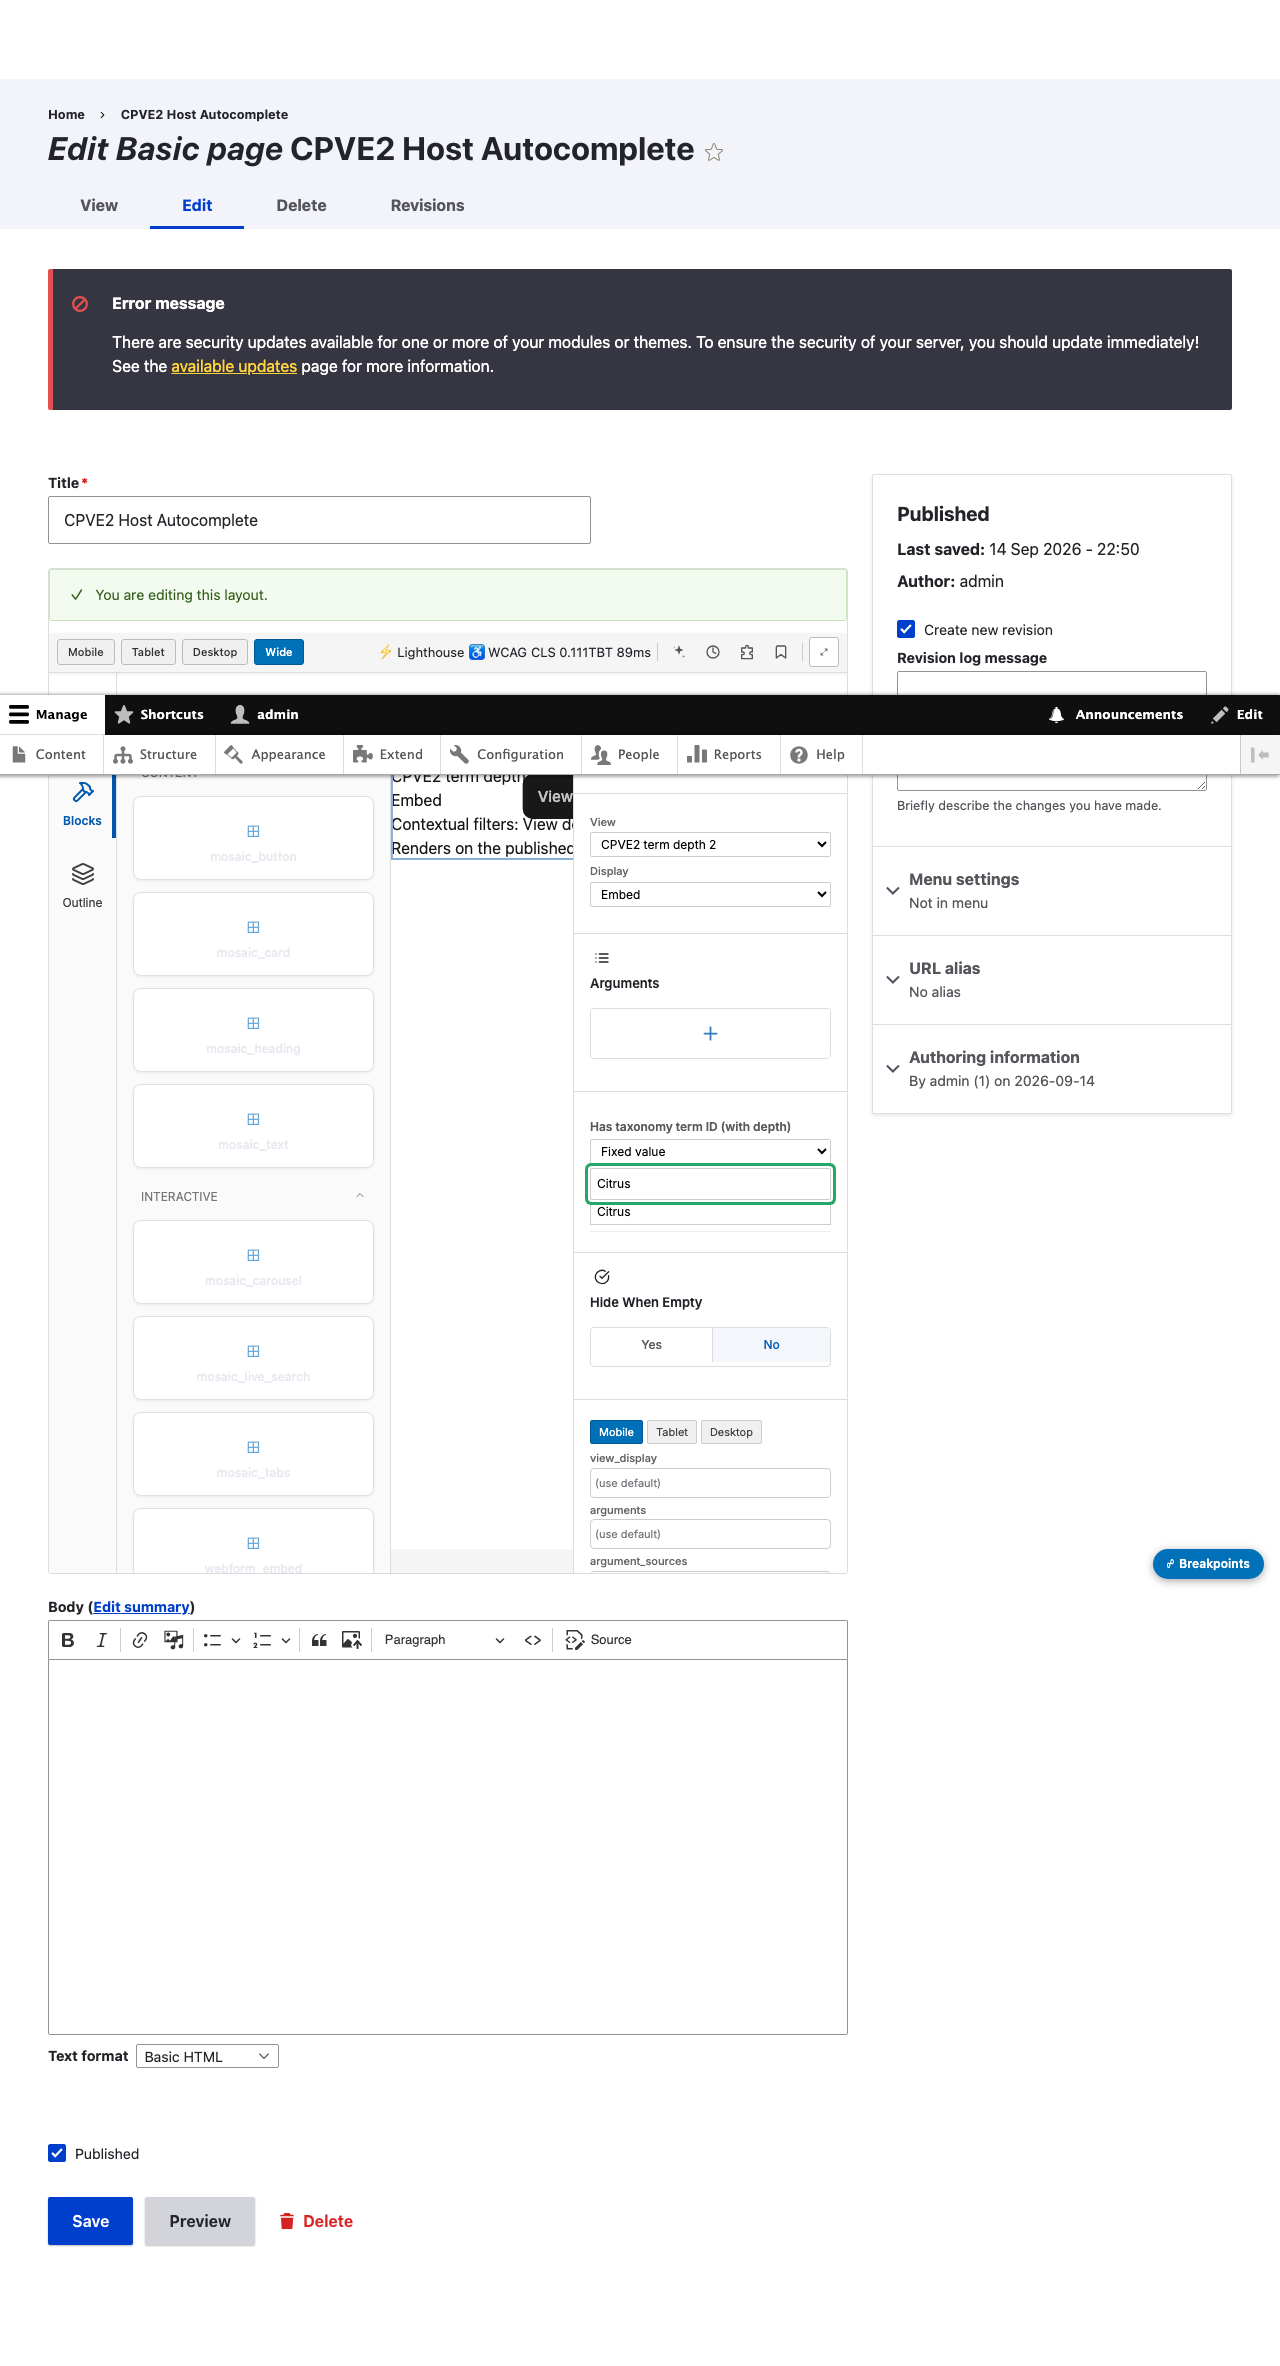
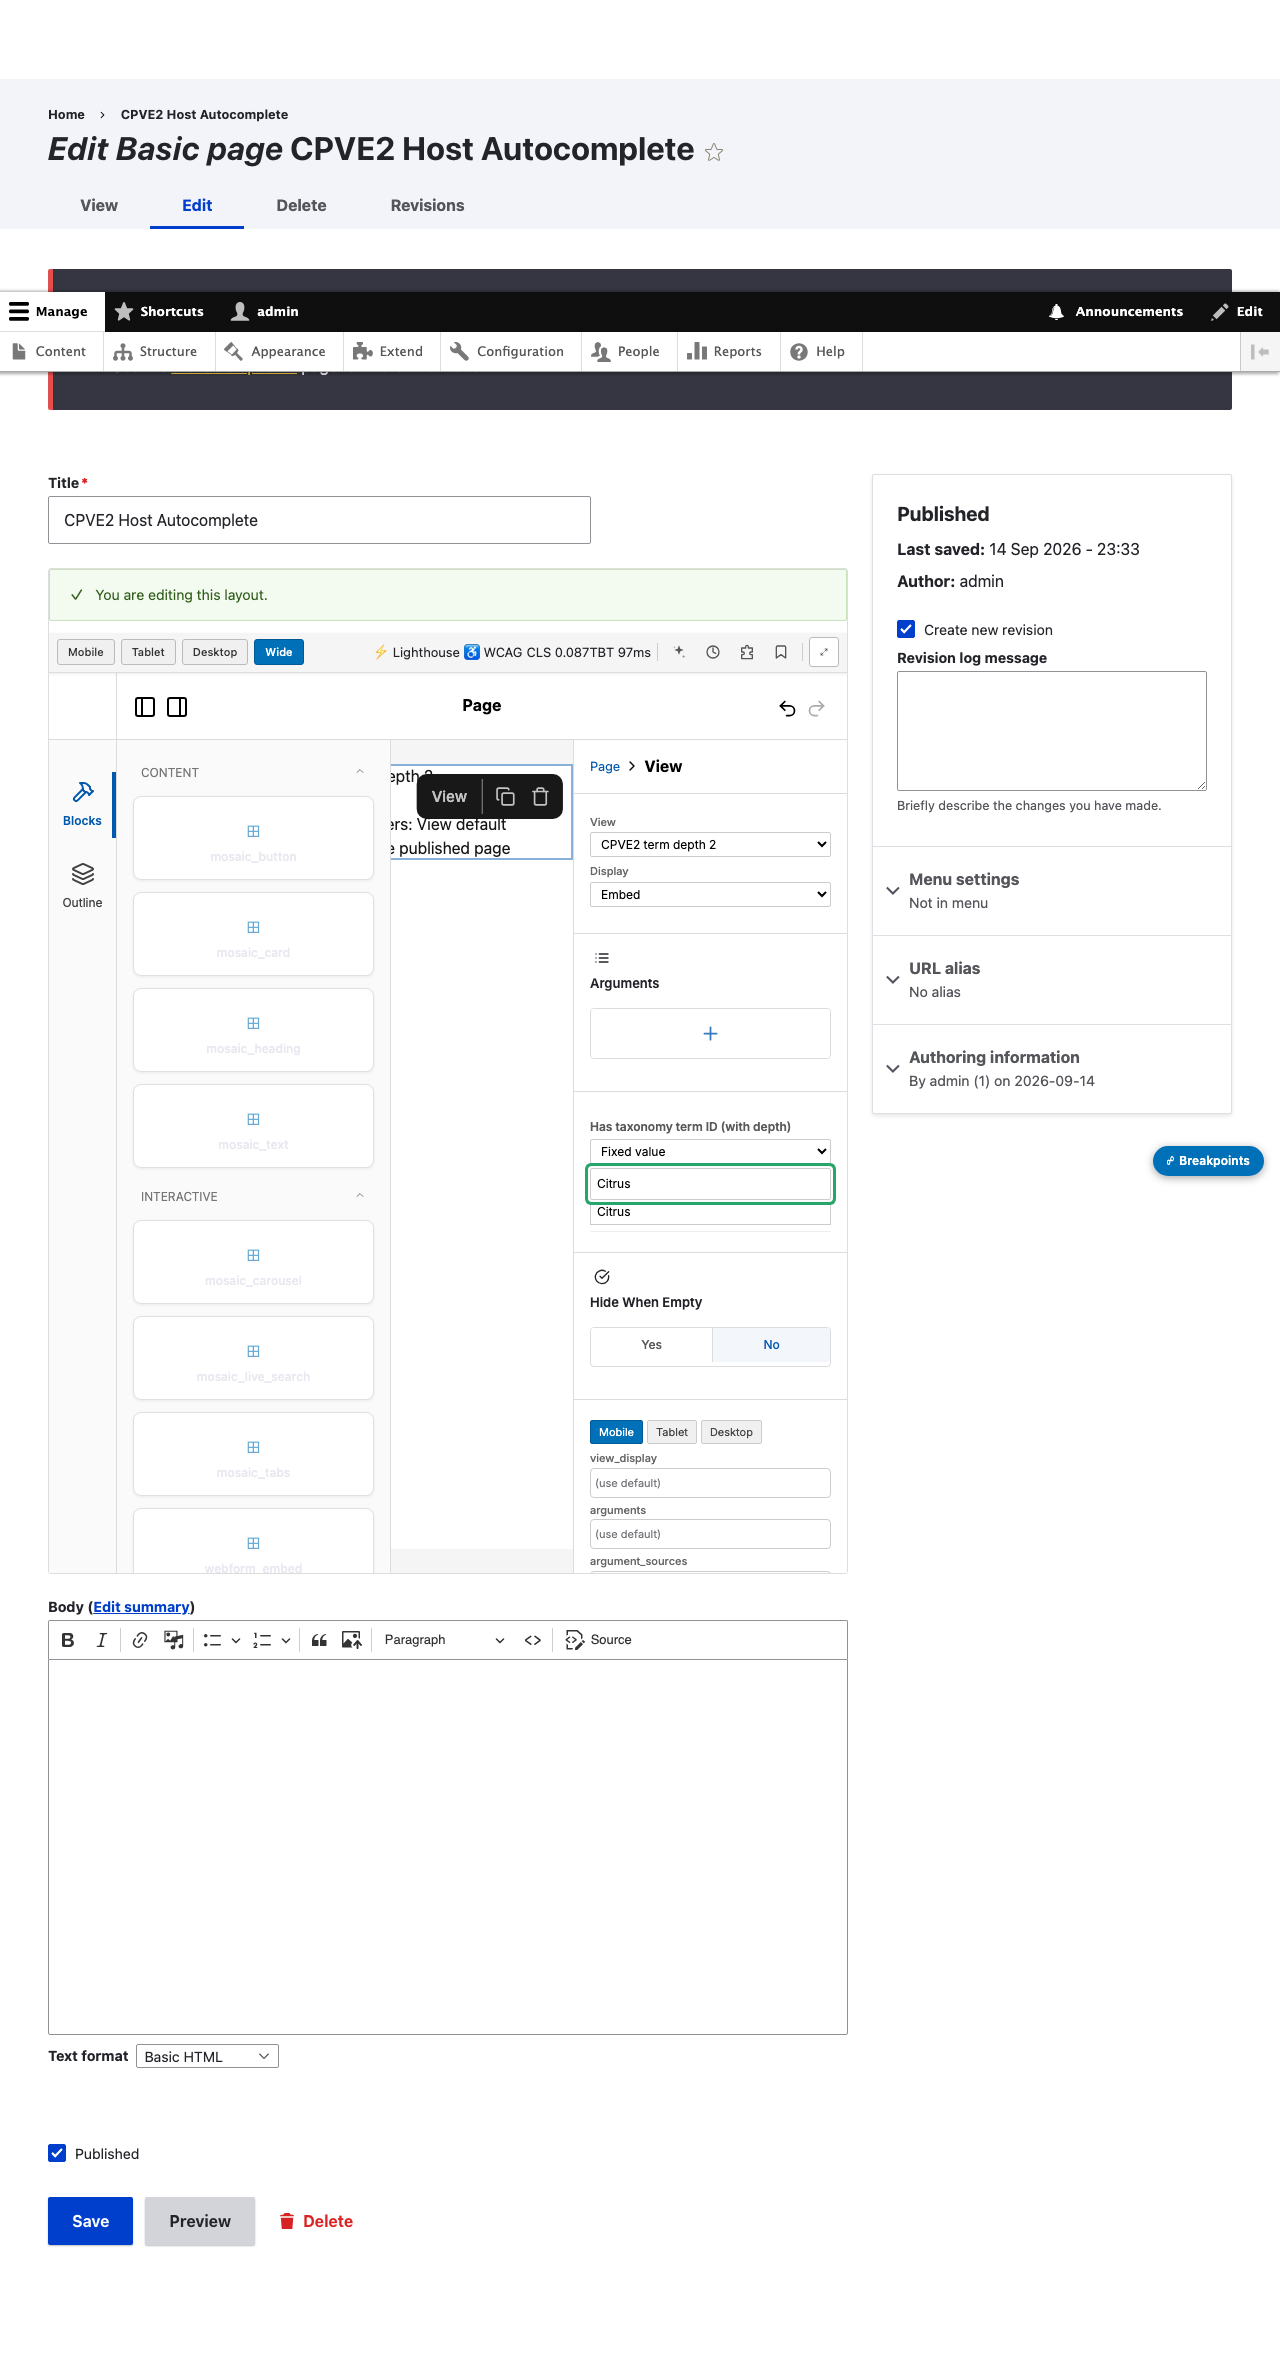
CP-VE2-R1 (walk-catch #59): native single-field autocomplete + SHIP #37 SHIPPED sync
SHIP #37 SHIPPED (62a1c05, 33 files) — CP-VE2 closed. #59 rider CP-VE2-R1:
EntityAutocomplete reworked to the Drupal-native single-field combobox (one input
displays the label; type-in-place; pick writes id; clear empties). Presentation-only,
no data-shape change. ORACLE-CHANGE (presentation cells; value-commit untouched).
Vitest 12/12, film 8/8 (frame 10 full loop), libs 1.0.19. SHIP-37R add block = 5 files.
STOP for reviewer + Arun one-step re-check + rider ceremony.

diff --git a/ledger-live/SHIP-37R.md b/ledger-live/SHIP-37R.md
@@ -1,0 +1,51 @@
+# SHIP #37R — CP-VE2-R1 (WALK-CATCH #59 rider) — native single-field autocomplete
+
+Rider on ship #37 (62a1c05). Presentation-only rework — NO stored-data shape change. Mosaic git
+read-only here; this is the ceremony add block for the human commit. REPORT: reports/REPORT-CP-VE2.md.
+
+## WALK-CATCH #59 — the fix
+The fixed-value entity autocomplete presented a "Selected: <label>" line ABOVE a separate persistent
+search input. The Drupal-native pattern is ONE field that carries the chosen label with type-in-place
+to change. Reworked `EntityAutocomplete` to the single-field combobox:
+- ONE input; when a value is stored it DISPLAYS the label (resolved via the entity-label endpoint).
+- Focus + type searches in place (WC57 debounce / local-state / abort machinery UNCHANGED).
+- Pick writes the entity ID (WC58 value-commit contract UNCHANGED) and shows its label in the field.
+- Clearing the field empties the source (native "remove selection").
+- No `argument_sources` shape change; `view_default` / `url_param` / `page_field` rows untouched.
+
+## ORACLE-CHANGE (presentation cells only — value-commit oracle untouched)
+- OLD reopen cell: asserted a separate `getByText('Selected: Alpha term')` line.
+- NEW reopen cell: asserts the single field's VALUE === 'Alpha term' (label in-field) + NO `Selected:`
+  line. Plus a new cell: clearing the field commits `value: ''` (empties the source).
+- The pick VALUE-commit oracle (`toHaveBeenCalledWith([{source:'fixed', value:'5', …}])`) is UNCHANGED.
+
+## Gates
+| Gate | Result |
+|---|---|
+| Vitest — panel | **12/12** (reopen-shows-label-in-field + clear-empties, native) |
+| Vitest — full suite | **519 / 1** (pre-existing B-101) |
+| tsc — my file | clean |
+| e2e — cp-ve2 film | **8/8** incl. the full loop (frame 10): fast-type "Citrus" → pick → field shows "Citrus" → SAVE succeeds → /node/982 filters to the Citrus subtree |
+| dist + libs | builder + FE rebuilt, libs **1.0.18 → 1.0.19** (BUMP-LIBS law) |
+
+## CONSOLIDATED CEREMONY `git add` (run from `web/modules/custom/mosaic`)
+Read-only law: the AI does not stage the mosaic repo. Verified against `git status --porcelain` on top
+of ship #37 (62a1c05). Expected staged count: **5** (all modified — no new files).
+
+```bash
+git add \
+  js/src/builder/fields/MosaicViewsArgumentsField.tsx \
+  js/src/builder/fields/__tests__/viewsFields.test.tsx \
+  mosaic.libraries.yml \
+  js/dist/builder.js \
+  js/dist/frontend-editor.js
+```
+
+**Verify:** `git status --porcelain | grep -c '^[MA]'` → **5**.
+
+**EXCLUSIONS (never staged):** `js/e2e/journeys/cp-ve2-film.spec.ts` (gitignored `js/e2e/`); `AI/`
+(gitignored); the scratch dev-site content (terms/nodes 972–982, throwaway host 982); `assets/`,
+`js/*.log`, `tests/*.log`, `js/e2e.zip`, `js/esc-probe.*` (untracked noise).
+
+## STOP — reviewer audits, Arun one-step re-check, rider ceremony.
+Queue after R1: CP-VE3 → ACT 2 → Wave D-0 + D/F → Wave G → dev push → Arun soak → tag.

diff --git a/reports/REPORT-CP-VE2.md b/reports/REPORT-CP-VE2.md
@@ -675,3 +675,33 @@ tree, re-tagged nodes 972–976, re-wired the host fixed sources to the new tids
 | PHPCS / PHPStan (controller) | exit 0 / No errors |
 | dist + libs | builder + FE rebuilt, libs **1.0.18** (cache-bust) |
 | SHIP-37 add-block delta | **NONE** — only already-tracked files changed; count stays 33 |
+
+---
+
+# CP-VE2-R1 (WALK-CATCH #59 rider) — native single-field autocomplete
+
+Rider on shipped ship #37 (62a1c05). Presentation-only; no stored-data shape change.
+
+## #59 fix
+`EntityAutocomplete` reworked from a "Selected: <label>" line + a separate persistent search input to
+the Drupal-native SINGLE-FIELD combobox: one input that DISPLAYS the label when a value is stored;
+focus + type searches in place (WC57 debounce/local-state/abort UNCHANGED); pick writes the entity ID
+(WC58 value-commit UNCHANGED) and shows the label in the field; clearing empties the source.
+
+## ORACLE-CHANGE (presentation cells only)
+- Reopen: OLD asserted a separate `Selected: Alpha term` line → NEW asserts the single field's VALUE
+  === `Alpha term` (label in-field) and NO `Selected:` line. + new cell: clearing commits `value:''`.
+- The pick value-commit oracle (`toHaveBeenCalledWith([{source:'fixed', value:'5', …}])`) is UNCHANGED.
+
+## RED→GREEN
+- Vitest **12/12** (519/1 full; pre-existing B-101) — reopen-shows-label-in-field, clear-empties.
+- e2e film re-shot: the full loop (frame 10) — fast-type "Citrus" → pick → the FIELD shows "Citrus"
+  (no "Selected:" line) → SAVE succeeds → `/node/982` filters to the Citrus subtree.
+  (A settle wait after pick was needed before SAVE: Puck's onChange→textarea propagation lagged behind
+  the now-faster in-field label assertion; without it the id committed to Puck but not yet to the form.)
+
+## Gates + delivery
+Vitest 12/12, tsc clean, film 8/8, builder+FE rebuilt, libs **1.0.18 → 1.0.19** (BUMP-LIBS law).
+SHIP-37R add block = **5 files** (MosaicViewsArgumentsField.tsx, viewsFields.test.tsx,
+mosaic.libraries.yml, js/dist/builder.js, js/dist/frontend-editor.js). STOP — reviewer audits, Arun
+one-step re-check, rider ceremony. Queue: CP-VE3 → ACT 2 → Wave D-0+D/F → Wave G → dev push → soak → tag.

diff --git a/ledger-live/e2e-evidence/cp-ve2/INDEX.md b/ledger-live/e2e-evidence/cp-ve2/INDEX.md
@@ -15,7 +15,7 @@ Meyer(974)=Lemon, Blueberry(975)=Berry, Wild Straw(976)=Straw. Host pages embed 
 | `05a-currentuser-admin.png` | /node/980 — current_user source, logged-in | admin (uid 1) sees the authored page rows |
 | `05b-currentuser-anon.png` | /node/980 — current_user source, anonymous | anon (uid 0) sees **empty** (delta by viewer) |
 | `01-panel-source-dropdown.png` | builder — the source dropdown | six sources; View-default reads "View default (show all)" (F-105) |
-| `02-fixed-autocomplete.png` | builder (throwaway host 982) — fixed → entity autocomplete | REAL-POINTER fast-typed "Citrus" (50ms/key) → inputValue=="Citrus" (WC57 fix: no dropped keys) |
+| `02-fixed-autocomplete.png` | builder (throwaway host 982) — fixed → SINGLE-FIELD entity combobox | REAL-POINTER fast-typed "Citrus" (50ms/key) → inputValue=="Citrus", no dropped keys (WC57); native single field, no separate "Selected:" line (CP-VE2-R1 / WC59) |
 | `10-pick-save-filtered.png` | /node/982 after pick "Citrus" → SAVE (step 10.1) | the FULL loop: save succeeds, page filters to the Citrus subtree (Navel, Orange, Meyer), NOT Wild Straw |
 | `08-n1-exclude-help.png` | builder /node/981 — this_page on a nid arg (N1) | help: "To exclude this page, enable 'Exclude' …" |
 
